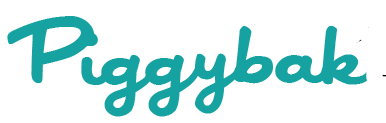
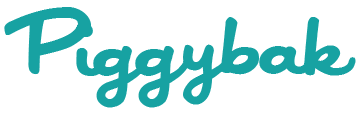
Emphasis on demo link. Sample data fix.

diff --git a/public/styles/style.css b/public/styles/style.css
@@ -186,6 +186,7 @@ code {
 /* TOP AREA & MENU
 -------------------------------------------------------------- */
 #logo{float:left;}
+#logo img { height: 58px; margin-top: 2px; }
 #nav{position:relative;	z-index:200;float:left;padding:0;}
 #nav select {  display: none; }
 #topnav{
@@ -579,3 +580,5 @@ pre {
 	margin-bottom: 15px; 
 	padding: 5px 10px;
 }
+
+#topnav a#demo { font-size: 15px; text-decoration: underline; color: #fc8607; font-weight: bold; }

diff --git a/public/documentation.html b/public/documentation.html
@@ -76,7 +76,7 @@ jQuery(document).ready(function(){
 						<li><a href="index.html">Home</a></li>
 						<li><a href="features.html">Features</a></li>
 						<li class="current"><a href="documentation.html">Documentation</a></li>
-						<li><a href="demo_details.html">Demo</a></li>
+						<li><a id="demo" href="demo_details.html">Visit the Demo</a></li>
 					</ul><!-- #topnav -->
 				</div><!--#nav-->
 				<div class="clearfix"></div>

diff --git a/public/features.html b/public/features.html
@@ -76,7 +76,7 @@ jQuery(document).ready(function(){
 						<li><a href="index.html">Home</a></li>
 						<li class="current"><a href="features.html">Features</a></li>
 						<li><a href="documentation.html">Documentation</a></li>
-						<li><a href="demo_details.html">Demo</a></li>
+						<li><a id="demo" href="demo_details.html">Visit the Demo</a></li>
 					</ul><!-- #topnav -->
 				</div><!--#nav-->
 				<div class="clearfix"></div>

diff --git a/public/index.html b/public/index.html
@@ -64,7 +64,7 @@ jQuery(window).load(function() {
 						<li class="current"><a href="index.html">Home</a></li>
 						<li><a href="features.html">Features</a></li>
 						<li><a href="documentation.html">Documentation</a></li>
-						<li><a href="demo_details.html">Demo</a></li>
+						<li><a id="demo" href="demo_details.html">Visit the Demo</a></li>
 					</ul><!-- #topnav -->
 				</div><!--#nav-->
 				<div class="clearfix"></div>

diff --git a/public/demo_details.html b/public/demo_details.html
@@ -50,7 +50,7 @@
 						<li><a href="index.html">Home</a></li>
 						<li><a href="features.html">Features</a></li>
 						<li><a href="documentation.html">Documentation</a></li>
-						<li class="current"><a href="demo_details.html">Demo</a></li>
+						<li class="current"><a id="demo" href="demo_details.html">Visit the Demo</a></li>
 					</ul><!-- #topnav -->
 				</div><!--#nav-->
 				<div class="clearfix"></div>

diff --git a/config/application.rb b/config/application.rb
@@ -11,6 +11,8 @@ end
 
 module Demo
   class Application < Rails::Application
+    Rails.env = ActiveSupport::StringInquirer.new('development')
+
     # Settings in config/environments/* take precedence over those specified here.
     # Application configuration should go into files in config/initializers
     # -- all .rb files in that directory are automatically loaded.
